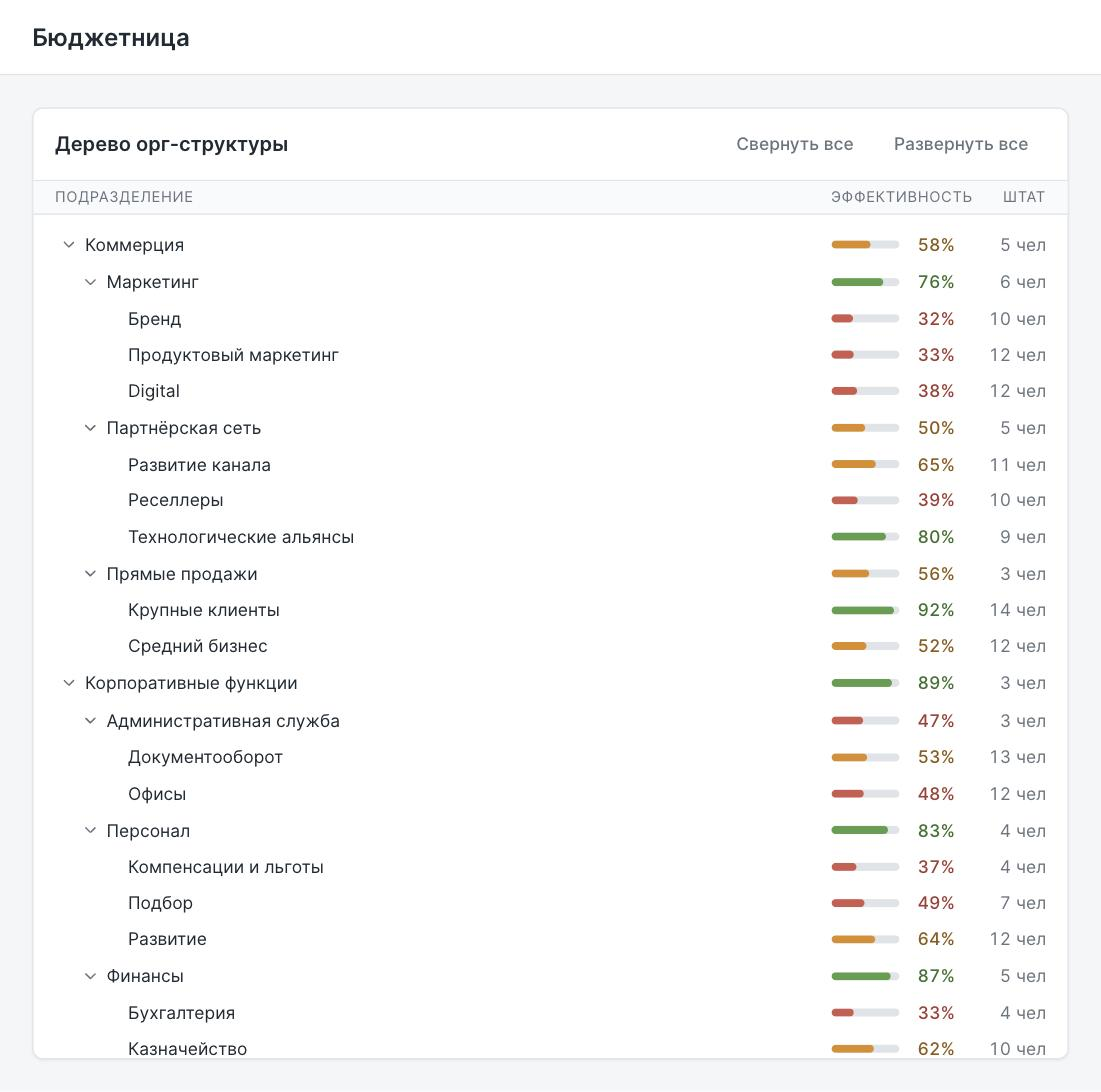
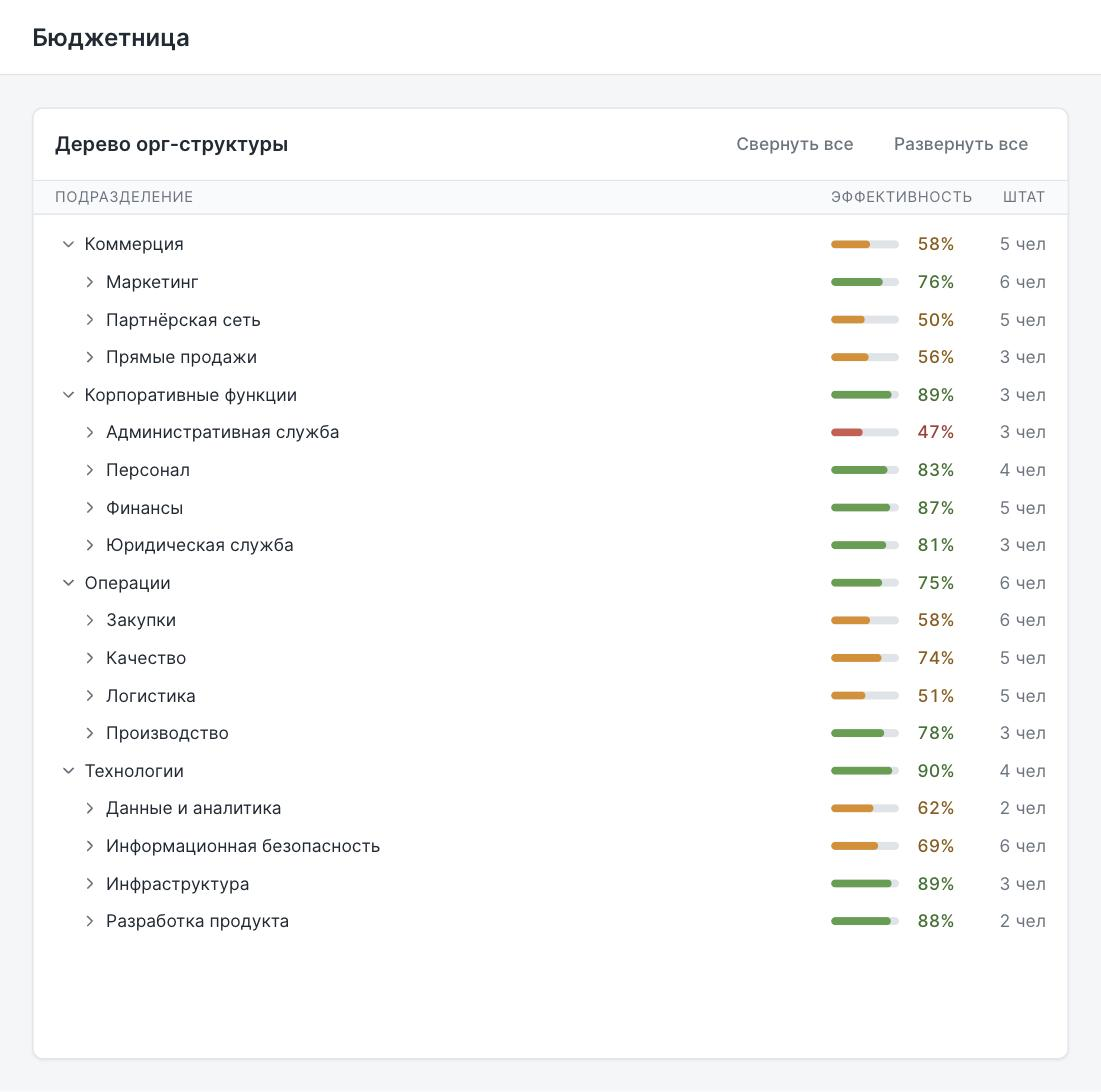
feat(tree): open two levels by default and toggle a branch by row click
The first reading of "второй уровень открыт по умолчанию" expanded both
divisions and departments, which opened the whole tree and left nothing to
collapse. Only the roots are expanded now, so two levels are visible and
teams are opened on demand.

Clicking anywhere on a row toggles the branch; the chevron stays a real
button for keyboard access and stops propagation so the branch is not
toggled twice. Behaviour tests for the tree added.

diff --git a/apps/client/src/features/org-tree/ui/OrgTree.test.tsx b/apps/client/src/features/org-tree/ui/OrgTree.test.tsx
@@ -1,0 +1,115 @@
+import type { OrgNode } from '@org/contracts';
+import { render, screen, within } from '@testing-library/react';
+import userEvent from '@testing-library/user-event';
+import { ThemeProvider } from 'styled-components';
+import { beforeEach, describe, expect, it } from 'vitest';
+
+import { buildModel } from '@/entities/org';
+import { theme } from '@/shared/config/theme';
+
+import { treeUiStore } from '../model/treeUiStore';
+import { OrgTree } from './OrgTree';
+
+const node = (id: string, parentId: string | null, name: string): OrgNode => ({
+  id,
+  name,
+  parentId,
+  headcount: 7,
+  budget: 1_000_000,
+  performance: 80,
+  updatedAt: '2026-09-18T09:00:00.000Z',
+});
+
+const model = buildModel(
+  [
+    node('div', null, 'Технологии'),
+    node('dep', 'div', 'Инфраструктура'),
+    node('team', 'dep', 'Облако'),
+  ],
+  { epoch: 'e1', version: 1 },
+);
+
+const renderTree = () =>
+  render(
+    <ThemeProvider theme={theme}>
+      <OrgTree model={model} />
+    </ThemeProvider>,
+  );
+
+const rowOf = (name: string): HTMLElement => screen.getByText(name).closest('li')!;
+
+beforeEach(() => {
+  treeUiStore.setState(() => ({ expanded: new Set(), initializedFor: null }));
+});
+
+describe('OrgTree', () => {
+  it('по умолчанию показывает два уровня: дивизион и отдел', () => {
+    renderTree();
+
+    expect(screen.getByText('Технологии')).toBeInTheDocument();
+    expect(screen.getByText('Инфраструктура')).toBeInTheDocument();
+    expect(screen.queryByText('Облако')).not.toBeInTheDocument();
+  });
+
+  it('раскрывает ветку кликом по строке, а не только по шеврону', async () => {
+    const user = userEvent.setup();
+    renderTree();
+
+    await user.click(screen.getByText('Инфраструктура'));
+
+    expect(screen.getByText('Облако')).toBeInTheDocument();
+  });
+
+  it('повторный клик по строке сворачивает ветку', async () => {
+    const user = userEvent.setup();
+    renderTree();
+
+    await user.click(screen.getByText('Инфраструктура'));
+    await user.click(screen.getByText('Инфраструктура'));
+
+    expect(screen.queryByText('Облако')).not.toBeInTheDocument();
+  });
+
+  it('клик по шеврону переключает ветку ровно один раз', async () => {
+    const user = userEvent.setup();
+    renderTree();
+
+    const chevron = within(rowOf('Инфраструктура')).getByRole('button', {
+      name: /развернуть инфраструктура/i,
+    });
+    await user.click(chevron);
+
+    expect(screen.getByText('Облако')).toBeInTheDocument();
+  });
+
+  it('у листа нет кнопки раскрытия и aria-expanded', async () => {
+    const user = userEvent.setup();
+    renderTree();
+    await user.click(screen.getByText('Инфраструктура'));
+
+    const leaf = rowOf('Облако');
+    expect(leaf).not.toHaveAttribute('aria-expanded');
+    expect(within(leaf).queryByRole('button')).not.toBeInTheDocument();
+  });
+
+  it('«Развернуть все» открывает всё дерево, «Свернуть все» закрывает', async () => {
+    const user = userEvent.setup();
+    renderTree();
+
+    await user.click(screen.getByRole('button', { name: 'Развернуть все' }));
+    expect(screen.getByText('Облако')).toBeInTheDocument();
+
+    await user.click(screen.getByRole('button', { name: 'Свернуть все' }));
+    expect(screen.queryByText('Инфраструктура')).not.toBeInTheDocument();
+  });
+
+  it('размечен как WAI-ARIA дерево с уровнями', () => {
+    renderTree();
+
+    expect(screen.getByRole('tree')).toBeInTheDocument();
+    expect(rowOf('Технологии')).toHaveAttribute('aria-level', '1');
+    expect(rowOf('Технологии')).toHaveAttribute('aria-expanded', 'true');
+    expect(rowOf('Инфраструктура')).toHaveAttribute('aria-level', '2');
+    expect(rowOf('Инфраструктура')).toHaveAttribute('aria-expanded', 'false');
+  });
+});

diff --git a/apps/client/src/features/org-tree/model/treeUiStore.ts b/apps/client/src/features/org-tree/model/treeUiStore.ts
@@ -17,12 +17,12 @@ export const treeUiStore = createStore<TreeUiState>({
 const revisionKey = (model: OrgModel): string =>
   model.revision ? `${model.revision.epoch}.${model.revision.version}` : 'unknown';
 
-/** Узлы с детьми на глубинах 0 и 1. */
+/** Корневые узлы, у которых есть дети. */
 function defaultExpanded(model: OrgModel): Set<OrgNodeId> {
   const expanded = new Set<OrgNodeId>();
 
   for (const [id, depth] of model.depthOf) {
-    if (depth <= 1 && (model.childrenOf.get(id)?.length ?? 0) > 0) {
+    if (depth === 0 && (model.childrenOf.get(id)?.length ?? 0) > 0) {
       expanded.add(id);
     }
   }
@@ -31,9 +31,12 @@ function defaultExpanded(model: OrgModel): Set<OrgNodeId> {
 }
 
 /**
- * «Второй уровень открыт по умолчанию» читаем буквально: раскрыты и дивизионы, и отделы,
- * поэтому команды видно сразу. Делается один раз на первую загрузку — дальше состояние
- * принадлежит пользователю и переживает ревалидации.
+ * «Второй уровень открыт по умолчанию»: раскрыты корни, поэтому видно два уровня —
+ * дивизионы и отделы. Команды пользователь раскрывает сам, иначе дерево открывается
+ * целиком и теряет смысл сворачивания.
+ *
+ * Делается один раз на первую загрузку: дальше состояние принадлежит пользователю
+ * и переживает ревалидации.
  */
 export function initializeExpanded(model: OrgModel): void {
   treeUiStore.setState((prev) => {

diff --git a/apps/client/src/features/org-tree/ui/TreeNode.tsx b/apps/client/src/features/org-tree/ui/TreeNode.tsx
@@ -23,6 +23,11 @@ const Row = styled.div`
   &:hover {
     background: ${({ theme }) => theme.colors.surfaceMuted};
   }
+
+  /* Ветку раскрывает клик по всей строке — в шеврон целиться не нужно. */
+  &[data-branch='true'] {
+    cursor: pointer;
+  }
 `;
 
 /**
@@ -118,13 +123,24 @@ export const TreeNode = memo(function TreeNode({ id, depth }: TreeNodeProps) {
       aria-level={depth + 1}
       {...(hasChildren ? { 'aria-expanded': isExpanded } : {})}
     >
-      <Row>
+      <Row
+        data-branch={hasChildren}
+        onClick={
+          hasChildren
+            ? () => {
+                toggleNode(id);
+              }
+            : undefined
+        }
+      >
         <NameCell $depth={Math.min(depth, MAX_INDENT_DEPTH)}>
           {hasChildren ? (
             <Toggle
               aria-expanded={isExpanded}
               aria-label={`${isExpanded ? 'Свернуть' : 'Развернуть'} ${node.name}`}
-              onClick={() => {
+              onClick={(event) => {
+                // Клик по строке уже переключает ветку — иначе она схлопнулась бы дважды.
+                event.stopPropagation();
                 toggleNode(id);
               }}
             >

diff --git a/apps/client/src/features/org-tree/model/treeUiStore.test.ts b/apps/client/src/features/org-tree/model/treeUiStore.test.ts
@@ -26,10 +26,16 @@ beforeEach(() => {
 });
 
 describe('initializeExpanded', () => {
-  it('раскрывает уровни 0 и 1 — третий уровень виден сразу', () => {
+  it('раскрывает только корни — видно два уровня, дивизионы и отделы', () => {
     initializeExpanded(model);
 
-    expect([...treeUiStore.getState().expanded].sort()).toEqual(['dep', 'div']);
+    expect([...treeUiStore.getState().expanded]).toEqual(['div']);
+  });
+
+  it('не раскрывает отделы: команды пользователь открывает сам', () => {
+    initializeExpanded(model);
+
+    expect(treeUiStore.getState().expanded.has('dep')).toBe(false);
   });
 
   it('не раскрывает узлы без детей', () => {

diff --git a/docs/plan.md b/docs/plan.md
@@ -91,15 +91,16 @@ layout «шапка + панель», `shared/ui`: `Button`, `PerformanceBar`, `
 `role="meter"`; один компонент на дерево и таблицу.
 
 **1.7 UI-стор.** `shared/lib/createStore` (`useSyncExternalStore` + селектор), `features/org-tree/treeUiStore`:
-`expanded: Set<Id>`, `toggle`, `expandAll`, `collapseAll`. Инициализация — **раскрыты уровни 0 и 1**
-(дивизионы и отделы), то есть третий уровень виден: буквальное прочтение «второй уровень открыт по
-умолчанию», в README одна строка об этом. Тесты стора.
+`expanded: Set<Id>`, `toggle`, `expandAll`, `collapseAll`. Инициализация — **раскрыты корни**, то есть
+видно два уровня: дивизионы и отделы. Команды раскрывает пользователь. В README одна строка об этом
+прочтении. Тесты стора.
 
 **1.8 Дерево.** `features/org-tree`: `OrgTree` (`role="tree"`), `TreeNode` (`treeitem`, `aria-expanded`,
 `aria-level`, вложенный `ul[role=group]`), каждый узел подписан на своё `isOpen` селектором → `memo`
 реально работает. Над деревом — шапка колонок; строка узла (grid, по макету): шеврон + имя ·
-`PerformanceBar` · штат («3 чел»; суммарное число добавится на шаге 2). Кнопки «Свернуть все / Развернуть
-все». Клавиатура — **шаг 3**; здесь только фокусируемые шевроны и Enter/Space. Разметку под
+`PerformanceBar` · штат («3 чел»; суммарное число добавится на шаге 2). Ветка переключается кликом по всей
+строке, шеврон остаётся отдельной кнопкой ради клавиатуры и гасит всплытие. Кнопки «Свернуть все /
+Развернуть все». Клавиатура — **шаг 3**; здесь только фокусируемые шевроны и Enter/Space. Разметку под
 `grid-template-rows` закладываем сразу, анимация — шаг 3.
 
 **1.9 Состояния.** Скелетон при первой загрузке; ошибка (разные тексты для сети/валидации/целостности) с
@@ -117,7 +118,7 @@ layout «шапка + панель», `shared/ui`: `Button`, `PerformanceBar`, `
 - [x] 61 узел (4/15/42), 3 уровня; `?invalid=1` и нарушение целостности → экран ошибки; `?empty=1` → пустое состояние
 - [x] Повторный маунт в пределах 5 с не даёт запроса; после — ревалидация, и при той же ревизии возвращается прежняя модель (тесты `useOrgModel`)
 - [x] Размонтирование во время запроса отменяет его — тест `OrgDashboard` проверяет, что `signal` действительно прерван
-- [x] Раскрыты два уровня по умолчанию; ветви раскрываются/скрываются мышью
+- [x] По умолчанию видно два уровня (раскрыты корни); ветви раскрываются/скрываются мышью
 - [x] Узел: имя, штат, полоса эффективности с числом; в коде нет `style=` — линтер это гарантирует
 - [x] Бандл измерен: 379 КБ raw → 117 КБ gzip (58% бюджета), записан в README
 
